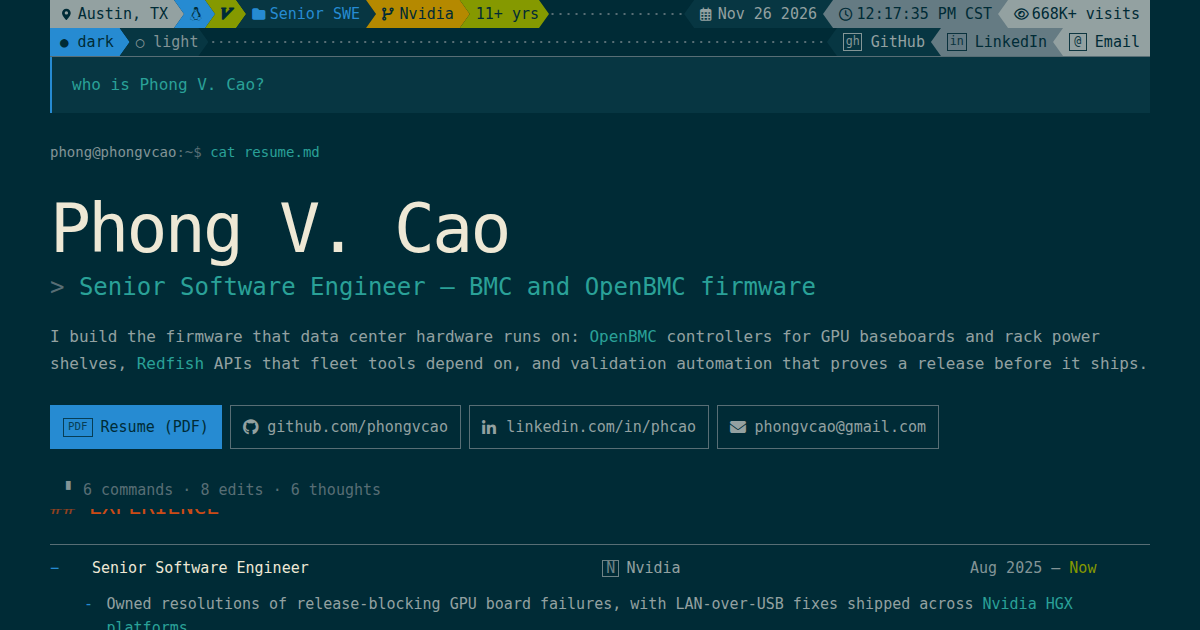
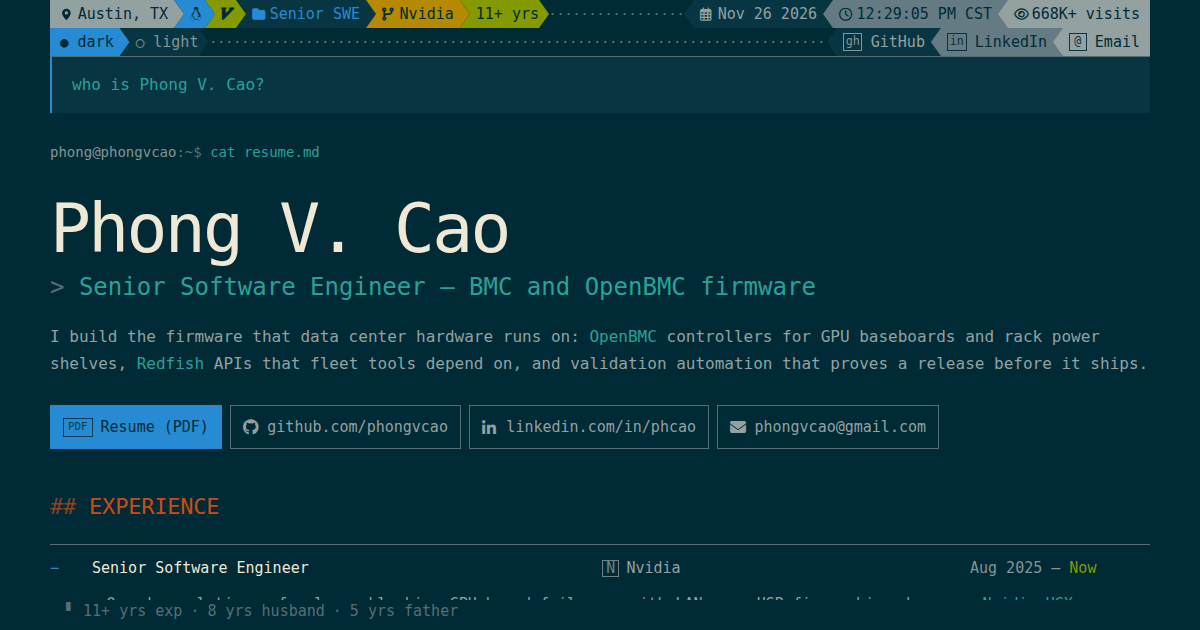
site: one tooltip, career years on the activity line
- The native title is gone, only the mono tooltip remains
- 11+ yrs exp, 8 yrs husband, 5 yrs father replace the command counters and keep the quadrant spinner
- The whole line, spinner included, uses the muted activity colour

diff --git a/index.html b/index.html
@@ -359,14 +359,16 @@
       </section>
 
       <div class="prompt-stack">
-        <p class="career-stats" aria-label="Years in each role">
-          <span data-since="2015-06-01" data-template="{n}+ yrs exp">11+ yrs exp</span>
-          <span class="stat-dot" aria-hidden="true">·</span>
-          <span data-since="2018-01-01" data-template="{n} yrs husband">8 yrs husband</span>
-          <span class="stat-dot" aria-hidden="true">·</span>
-          <span data-since="2021-01-01" data-template="{n} yrs father">5 yrs father</span>
+        <p class="prompt-activity" aria-label="Years in each role">
+          <span class="spinner" aria-hidden="true">▘</span>
+          <span class="activity-line">
+            <span data-since="2015-06-01" data-template="{n}+ yrs exp">11+ yrs exp</span>
+            <span class="stat-dot" aria-hidden="true">·</span>
+            <span data-since="2018-01-01" data-template="{n} yrs husband">8 yrs husband</span>
+            <span class="stat-dot" aria-hidden="true">·</span>
+            <span data-since="2021-01-01" data-template="{n} yrs father">5 yrs father</span>
+          </span>
         </p>
-        <p class="prompt-activity"><span class="spinner" aria-hidden="true">▘</span><span>6 commands · 8 edits · 6 thoughts</span></p>
         <div class="prompt-box">
           <a class="prompt-link" href="mailto:phongvcao@gmail.com">
             <span>phongvcao@gmail.com</span>
@@ -488,7 +490,6 @@
       expItems.forEach(function (item) {
         var summary = item.querySelector(".exp-summary");
         if (!summary) return;
-        summary.setAttribute("title", "Click to pin open · click again to close");
         summary.setAttribute("aria-describedby", "pin-tip");
         function placeTip(event) {
           var tip = document.getElementById("pin-tip");

diff --git a/styles.css b/styles.css
@@ -625,24 +625,6 @@ code {
   background: var(--base03);
 }
 
-.career-stats {
-  position: fixed;
-  left: 0;
-  right: 0;
-  bottom: calc(var(--status-h) + var(--prompt-h) + var(--activity-h));
-  z-index: 100;
-  display: flex;
-  flex-wrap: wrap;
-  align-items: center;
-  gap: 8px;
-  width: min(1100px, calc(100% - 48px));
-  margin: 0 auto;
-  padding: 0 16px 6px;
-  background: var(--base03);
-  color: var(--base0);
-  font-size: 0.9375rem;
-  line-height: 1.5;
-}
 
 .stat-dot {
   color: var(--base01);
@@ -756,7 +738,14 @@ code {
 }
 
 .spinner {
-  color: var(--base0);
+  color: var(--base01);
+}
+
+.activity-line {
+  display: inline-flex;
+  flex-wrap: wrap;
+  align-items: center;
+  gap: 8px;
 }
 
 .prompt-status {
